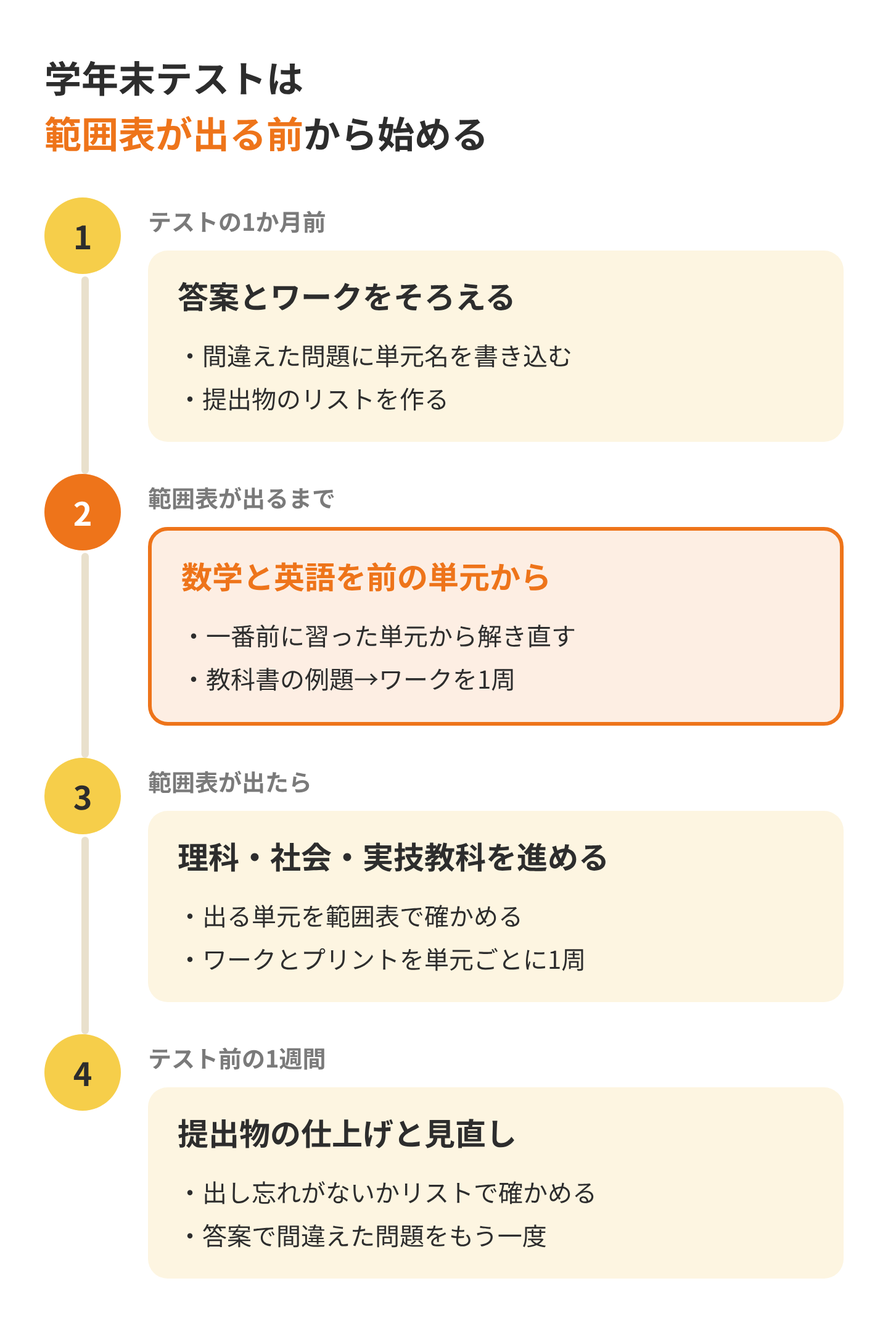
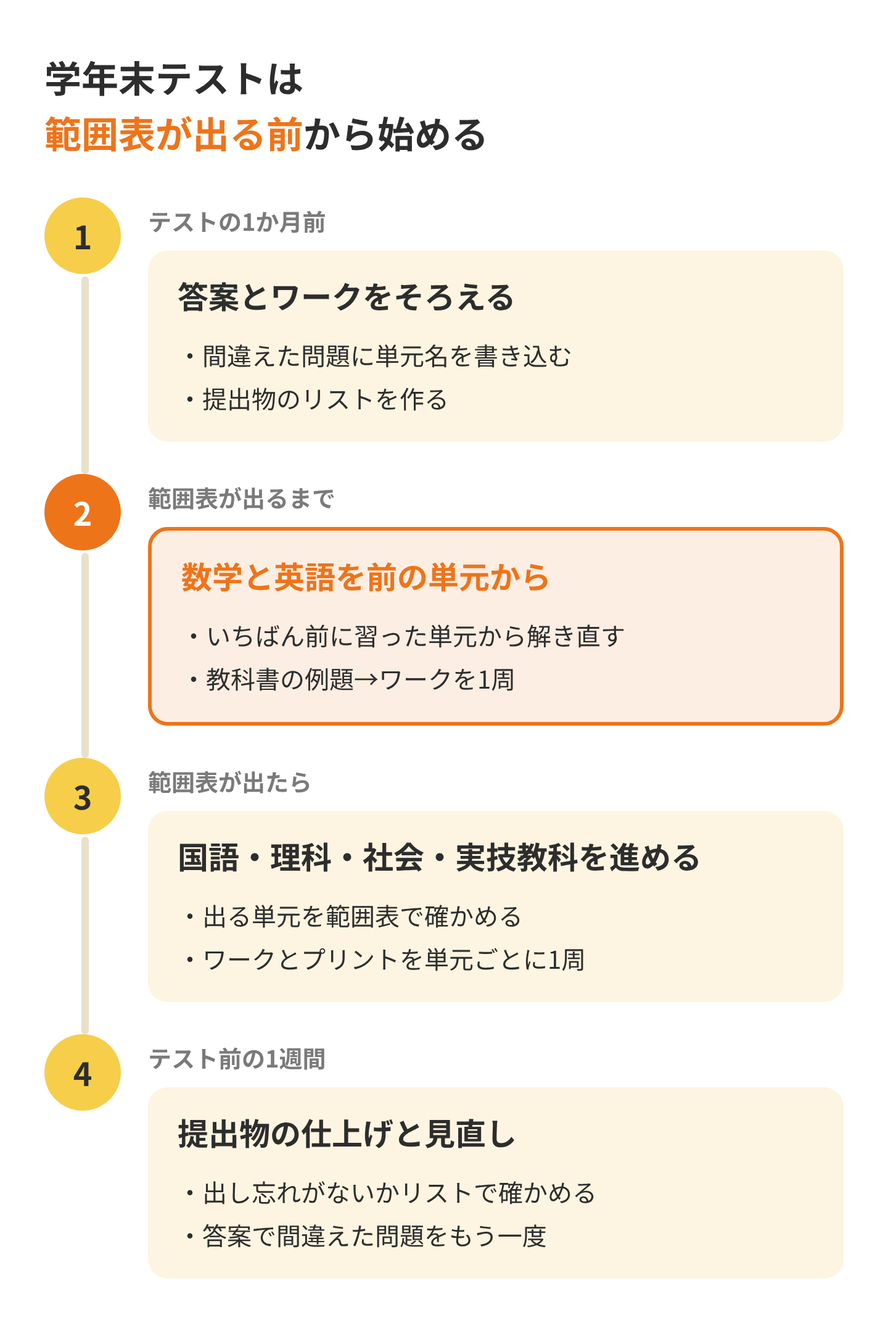
学年末テスト記事: 文体・読みやすさの指摘を反映、計画書の季節記事カレンダーを修正（記事は非公開のまま）
見出しのリズム読点、段落頭の短文、「〜のは〜です」、文中の内部リンク（カード化して段落が割れる）を直し、中1・中2に難しい用語（評定の総括、指導要録、共通選抜、実技教科、内申）を言い換えた。国語の進め方を足し、中1向けの単元例を追加。FAQの3問目を「範囲は1年分全部か」に差し替え、煽り気味のタイトルの関連記事カードは外した。
計画書 Part A のカレンダーからオフシーズンの行を外して学年末テストの行を足し、Part B のオフシーズンのキーワードを「見送り（検索なし）」にした。

Claude-Session: https://claude.ai/code/session_012jAEswVYEKr2cbnoqd2DkM

Changed region(s): [[0.25, 0.4688, 0.6875, 0.5], [0.4062, 0.625, 0.7812, 0.6562], [0.1875, 0.625, 0.375, 0.6562]]

diff --git a/content/blog/gakunenmatsu-test-chu1-chu2.md b/content/blog/gakunenmatsu-test-chu1-chu2.md
@@ -1,7 +1,7 @@
 ---
 title: 中1・中2の学年末テスト勉強法｜いつから始める？解き直しの順番と内申への影響
 description: >-
-  中1・中2の学年末テストは、その学年の評定を決める最後の定期テストです。中2の評定は神奈川・埼玉・千葉の、中1の評定は埼玉・千葉の公立高校入試で内申に入ります。2月のテストに向けて1月から何をそろえ、どの順番で解き直すかを、部活を続けている中学生に向けてまとめました。
+  中1・中2の学年末テストは、その学年の評定を決める最後の定期テストです。中2の評定は神奈川・埼玉・千葉の、中1の評定は埼玉と千葉の公立高校入試で内申に入ります。2月のテストに向けて1月から何をそろえ、どの順番で解き直すかを、部活を続けている中学生に向けてまとめました。
 date: '2026-10-26'
 author: 中村龍人
 category: 学習のコツ
@@ -23,134 +23,136 @@ published: false
 targetReader: student
 faq:
   - q: 学年末テストの平均点はどれくらいですか
-    a: 平均点は学校や教科、その回の問題によって変わり、全国で比べられる数字はありません。評定は、学習指導要領の目標に照らしてどこまでできているかで評価する方式（目標に準拠した評価）でつけられます。平均点と比べるより、答案で落とした単元を確かめるほうが次の点数につながります。
-  - q: 中1の学年末テストで、とくに大事な教科はありますか
-    a: 数学と英語は、中1の内容を使って中2の内容を習うので、学年末までに穴を埋めておくと次の学年が楽になります。ただ、埼玉と千葉の公立高校入試では中1の9教科すべての評定が数えられるので、実技教科も含めて取りこぼさないようにしましょう。
-  - q: 学年末テストは何日前から勉強すればいいですか
-    a: テストの1か月ほど前から始めましょう。2月にテストがある学校なら1月です。範囲表が配られる前でも、これまでの定期テストの答案と学校のワークをそろえ、数学と英語の間違えた単元を解き直すところまでは進められます。範囲表が出たら、理科と社会、実技教科に移ります。
+    a: 平均点は学校や教科、その回の問題によって変わるので、全国で比べられる数字はありません。評定は、その教科で習うことがどこまでできるようになったかを先生が見てつけるもので、文部科学省は2001年（平成13年）の通知から各教科の評定をこのつけ方にしています。平均点より上か下かを気にするより、答案で落とした単元を確かめるほうが次の点数につながります。
+  - q: 中1の学年末テストでとくに大事な教科はありますか
+    a: 数学と英語は中2の授業に直接つながるので、とくに穴を残さないようにしたい教科です。ただ、埼玉と千葉の公立高校入試では中1の9教科すべての評定が数えられるので、実技教科も含めて取りこぼさないようにしてください。
+  - q: 学年末テストの範囲は1年分全部ですか
+    a: 学校や教科によって違います。後期や3学期に習った単元を中心に出す学校もあれば、船橋市立船橋中学校の2年の英語のように、その学年で習った文法を範囲にしている例もあります。範囲表が配られたら、教科ごとにどこまで出るのかを確かめてください。
 ---
 
-中1・中2の学年末テストは、その学年の評定（学年末の通知表に載る5段階の成績）を決める最後の定期テストで、中2の評定は神奈川・埼玉・千葉の、中1の評定は埼玉・千葉の公立高校入試で内申として点数に入ります。テストが2月にある学校なら、勉強はその1か月ほど前の1月、範囲表が配られる前から始めましょう。まずは、これまでの定期テストの答案と学校のワークをそろえ、間違えた単元を前の学年までさかのぼって解き直します。
+中1・中2の学年末テストは、その学年の評定（学年末の通知表に載る5段階の成績）を決める最後の定期テストです。中2の評定は神奈川・埼玉・千葉の、中1の評定は埼玉と千葉の公立高校入試で内申（入試で使う、評定を点数にしたもの）として点数に入り、中3の評定だけを使う東京の都立高校でも、中3の授業は中1・中2で習った内容の上に進みます。テストが2月にある学校なら、1か月ほど前の1月、範囲表が配られる前から、これまでの定期テストの答案と学校のワークをそろえて、間違えた単元を前の学年までさかのぼって解き直してください。
 
-この記事は、部活を続けている中1・中2に向けて書いています。冬のうちに下準備を進めておくと、春の大会に向けて練習や試合が増える時期とテストが重なっても慌てずに済みます。私は高校3年の9月まで部活を続けてから受験勉強に切り替え、東京大学に進学しました。いまは塾で中学生を教えていて、そこで生徒に勧めている進め方をまとめました。
+私は高校3年の9月まで部活を続けてから受験勉強に切り替えて東京大学に進学し、いまは塾で中学生を教えています。この記事では、塾で生徒に勧めている学年末テストの進め方を、部活を続けている中1・中2に向けてまとめました。
 
 ![IMAGE_PLACEHOLDER: 冬の夕方、机に定期テストの答案と学校のワークを広げて見直す中学生](/images/blog/gakunenmatsu-test-chu1-chu2-desk.jpg)
 
-## 学年末テストは、ふだんの定期テストと何が違う？
+## 学年末テストはふだんの定期テストと何が違う？
 
-**その学年の評定を決める最後の定期テストになる点が、いちばん大きな違いです。** 文部科学省の通知では、中学校の評定は、学年ごとに各教科の学習の状況を、学習指導要領の目標に照らして総括的に評価してつけるものとされています。国立教育政策研究所の資料も、評定へのまとめは学期末や学年末に行われることが多いと説明しています。学年末までに解けるようになった単元は、学年末テストの点数として、その学年の評定の材料に加わります。
+**学年末テストはその学年の評定を決める最後の定期テストで、このテストの結果まで含めて1年間の評定がつけられます。** 文部科学省の通知では、評定は学年ごとに、その教科で習うことがどこまでできるようになったかをまとめて見てつけることになっています。国立教育政策研究所の資料にも、学期末や学年末に評定をまとめることが多いと書かれています。学年末までに解けるようになった単元は、学年末テストの点数としてその学年の評定の材料に入ります。
 
-範囲は学校や教科によって違います。後期や3学期に習った単元を中心に出す学校もあれば、千葉県の船橋市立船橋中学校の2年の範囲表のように、英語で「2年生で学習した文法表現」を範囲にしている教科もあります。前期・後期の2学期制の学校では、学年末テストを「後期期末テスト」や「第4回定期テスト」と呼ぶこともあります。範囲表が配られたら、教科ごとに、その学年のどこまでが出るのかを最初に確かめましょう。
+学年末テストの範囲は学校や教科によって違い、後期や3学期に習った単元を中心に出す学校もあります。千葉県の船橋市立船橋中学校の2年の英語のように、「2年生で学習した文法表現」と、その学年で習った文法を範囲にしている例もあります。前期・後期の2学期制の学校では、学年末テストを「後期期末テスト」や「第4回定期テスト」と呼ぶこともあります。範囲表が配られたら、まず教科ごとにその学年のどこまでが出るのかを確かめます。
 
-## 中1・中2の学年末テストは、高校受験に関係ある？
+## 中1・中2の学年末テストは高校受験に関係ある？
 
-**神奈川・埼玉・千葉の公立高校入試では中2の評定が、埼玉と千葉では中1の評定も内申として点数に入るので関係があります。** 東京の都立高校で使うのは中3の評定だけです。
+**神奈川・埼玉・千葉の公立高校を受けるなら関係があります。中2の評定は3県とも、中1の評定は埼玉と千葉で、入試の内申として点数に入ります。** 東京の都立高校は中3の評定だけを使います。
 
-| 都県 | 公立高校の入試で使う評定 | 中1・中2の評定の重さ |
+| 都県 | 入試で使う評定 | 中1・中2の評定 |
 |---|---|---|
-| 東京（都立） | 中3の9教科 | 使わない |
-| 神奈川 | 中2と中3の9教科（中3の合計は2倍） | 重みづけをしない高校では、中2の9教科の合計が135点のうち45点分 |
-| 埼玉 | 中1から中3までの9教科（共通選抜） | 学年の比率を1：1：1にする高校なら、中1と中2がそれぞれ135点のうち45点分 |
-| 千葉 | 中1から中3までの必修教科の評定の合計 | 全学年の合計を使う（配点は高校ごと） |
+| 東京（都立） | 中3 | 使わない |
+| 神奈川 | 中2・中3（中3は2倍） | 中2が135点中45点 |
+| 埼玉 | 中1・中2・中3 | 学年の比率が1：1：1の高校なら、中1・中2が135点中45点ずつ |
+| 千葉 | 中1・中2・中3 | 3学年の合計を使う（配点は高校ごと） |
 
 出典：各都県教育委員会の令和9年度（2027年度）入学者選抜の実施要綱・要領など（記事末の「参考にした資料」）
 
-埼玉の共通選抜では、学年ごとの比率を1：1：1、1：1：2、1：1：3の中から高校が選びます。中3の比率を重くする高校でも、中1と中2の評定がそれぞれ45点分入ることは変わりません。ただ、1：1：3の高校では満点が225点になるので、そのうちの45点分になります。埼玉の要項は、中1・中2の評定には指導要録（学校が学年ごとに残す成績の公式の記録）に書かれた評定を使うと定めています。
+1学年分の評定は9教科×5段階で45点満点で、表はいまの中3が受ける2027年度入試の決まりです。中1・中2が受ける年には変わることもあります。中3になったら、その年の要項で確かめてください。
 
-埼玉と千葉の内申では9教科の評定を足すので、音楽や美術、保健体育、技術・家庭の評定も、国語や数学と同じ重さで数えられます。神奈川では、高校によっては3教科まで、その教科の評定（中2の評定＋中3の評定×2）を最大2倍に重くして計算します。東京の都立高校の一般入試では、中3の実技4教科の評定を2倍にして計算します。
+埼玉の公立高校の入試（共通選抜）では、学年ごとの比率を1：1：1、1：1：2、1：1：3の中から高校が選びます。中3を重くする高校でも中1と中2の評定がそれぞれ45点分入ることは変わらず、1：1：3の高校では225点満点のうちの45点分になります。埼玉では、学校が学年ごとに残す成績の記録（指導要録）に書かれた評定が、そのまま入試に使われます。
 
-東京の場合も、中3の数学や英語は、中1・中2で習った内容の上に積み上がっていきます。中1・中2の学年末に残った穴は、中3の授業でそのまま顔を出します。内申の数え方と進路の選び方は、別の記事で全体を整理しています。
+埼玉と千葉の内申は9教科の評定を足して出すので、実技教科（音楽、美術、保健体育、技術・家庭）の評定も国語や数学と同じ重さで数えられます。神奈川では、高校によっては3教科まで選んで、その教科の評定（中2の評定＋中3の評定×2）を最大2倍にして数えます。東京の都立高校の一般入試では、中3の実技教科の評定を2倍にして計算します。
+
+東京の都立高校を受ける場合も、中3の数学や英語は中1・中2で習った内容を使って進むので、学年末までに残った穴は中3の授業でつまずく原因になります。内申の数え方と進路の選び方は、別の記事で全体を整理しています。
 
 [野球をがんばる中学生の高校進学｜3つの進路と選択肢の残し方](/blog/baseball-career-path-hub)
 
 :::cta-line
 id: gakunenmatsu_test_chu1_chu2_mid_line
 gift: 高校受験の基本のき‖（野球×高校受験 両立ガイド）
-title: 中1・中2のうちに、‖高校受験の全体像を‖家族で確かめておきませんか。
+title: 中1・中2のうちに‖高校受験の全体像を‖家族で確かめておきませんか。
 button: LINEで受け取る
 link: https://lin.ee/XXwhO3b
 :::
 
 ## 学年末テストの勉強はいつから始める？
 
-**テストの1か月ほど前、範囲表が配られる前から始めましょう。** 東京・神奈川・千葉の公立中学校の令和8年度の年間行事予定を見ると、中1・中2の学年末テストはどれも2月の上旬から下旬に予定されていました。たとえば、千葉市立若松中学校は2月9日・10日、川崎市立有馬中学校は2月15日・16日、東京都の北区立飛鳥中学校は2月22日からの予定です。その1か月前は、ちょうど1月になります。
+**テストの1か月ほど前から始めます。2月にテストがある学校なら、範囲表が配られる前の1月です。** 東京・神奈川・千葉の公立中学校の2026年度（令和8年度）の年間行事予定を見ると、中1・中2の学年末テストはどれも2月の上旬から下旬に予定されていました。たとえば千葉市立若松中学校は2月9日・10日、川崎市立有馬中学校は2月15日・16日、東京都の北区立飛鳥中学校は2月22日からの予定です。
 
 テスト前に部活動が止まる期間は、1週間前から（千葉市立緑町中学校）、原則として5日前から（船橋市立芝山中学校）のように学校によって違います。その期間だけで1年分の答案とワークを見直すのは大変なので、部活が止まる前から少しずつ進めておく必要があります。
 
-部活をしている人は、冬の予定も見ておきましょう。学校の部活動は、国のガイドラインで長期休業中に一定期間のオフシーズンを設けることになっていて、野球のクラブチームでも12月は卒団式などが中心になるところがあります。一方で、リトルシニアのチームの入団案内には、春の大会の支部予選が2月の第3日曜日から始まると書いているものもあり、テスト前の時期と重なることがあります。試合が少なくなりやすい12月から1月のうちに、答案とワークをそろえて、数学と英語の解き直しを進めておくと、2月に練習や試合が増えても慌てずに済みます。
+冬は部活の予定も変わり、学校の部活動は国のガイドラインで長期休業中に一定期間のオフシーズンを設けることになっていて、野球のクラブチームでも12月は卒団式などが中心になるところがあります。一方でリトルシニアのチームの入団案内には、春の大会の支部予選が2月の第3日曜日から始まると書かれているものもあり、クラブチームに入っている人は学年末テストの前と大会が重なることがあります。試合が少なくなりやすい12月から1月のうちに答案とワークをそろえ、数学と英語の解き直しを進めておけば、2月に練習や試合が増えても慌てずに済みます。
 
-## 予想問題を探す前に、何をそろえればいい？
+## 予想問題を探す前に何をそろえればいい？
 
-**これまでの定期テストの答案、学校のワーク、授業のプリント、提出物のリストの4つをそろえましょう。** 定期テストは、その学校で授業をしている先生が作ります。ネットの予想問題を探すより、授業で使ったワークやプリント、これまでのテストを見直すほうが、実際に出る問題に近づけます。
+**これまでの定期テストの答案、学校のワーク、授業のプリントの3つをそろえて、提出物のリストを作ります。** 定期テストは、その学校で授業をしている先生が作ります。ネットの予想問題を探すより、授業で使ったワークやプリントとこれまでのテストを見直すほうが、実際に出る問題に近い練習ができます。
 
 答案は、その学年で受けた定期テストを全部集めます。なくしてしまった回は、ワークの間違えた問題で代わりにできます。
 
-塾で内申を上げたい生徒を受け持つとき、私が最初にするのも提出物のリストづくりです。評定は、テストの点数のほかに、ノートやレポートの記述、授業中の発言なども材料にしてつけられます（評定のつき方は[中3の2学期の内申の記事](/blog/chu3-2gakki-naishin)でくわしく書いています）。学年末テストまでに出すワークやレポートを、教科ごとに締め切りと一緒に書き出しておくと、テスト勉強に追われて出し忘れることを防げます。
+塾で内申を上げたい生徒を受け持つと、私はまず提出物のリストを作ってもらいます。評定はテストの点数のほかに、ノートやレポートの記述、授業中の発言なども材料にしてつけられます。学年末テストまでに出すワークやレポートを教科ごとに締め切りと一緒に書き出しておくと、テスト勉強に追われて出し忘れることを防げます。
+
+評定がテストやそれ以外の取り組みからどうつけられるかは、中3の2学期の内申の記事でくわしく書いています。
+
+[中3の2学期で内申は上がる？評定の決まり方と期末テストまでに見直すところ](/blog/chu3-2gakki-naishin)
 
 ![IMAGE_PLACEHOLDER: 定期テストの答案と学校のワーク、提出物のリストを机に並べた中学生の手元](/images/blog/gakunenmatsu-test-chu1-chu2-materials.jpg)
 
-## 学年末テストは、どの順番で勉強すればいい？
+## 学年末テストはどの順番で勉強すればいい？
 
-**答案の間違えた問題に単元名を書き込み、数学と英語は前の単元から、理科と社会、実技教科は範囲表が出てから単元ごとに進めます。** 1か月前からの流れにすると、次のようになります。
+**まず答案の間違えた問題に単元名を書き込み、数学と英語は前の単元から、国語・理科・社会・実技教科は範囲表が出てから単元ごとに進めます。**
 
-![学年末テストまでの流れ。1か月前に答案とワークをそろえて単元名を書き込み、範囲表が出るまでに数学と英語を前の単元から解き直し、範囲表が出たら理科と社会、実技教科を単元ごとに進め、テスト前の1週間で提出物の仕上げと見直しをする](/images/blog/gakunenmatsu-test-chu1-chu2-flow.png)
+![学年末テストまでの流れ。1か月前に答案とワークをそろえて単元名を書き込み、範囲表が出るまでに数学と英語を前の単元から解き直し、範囲表が出たら国語・理科・社会・実技教科を単元ごとに進め、テスト前の1週間で提出物の仕上げと見直しをする](/images/blog/gakunenmatsu-test-chu1-chu2-flow.png)
 
-### 数学と英語は、前の単元までさかのぼる
+### 数学と英語は前の単元までさかのぼる
 
-数学と英語は、前に習った単元を使って次の単元を習う教科です。答案の間違えた問題の横に、「一次関数の式を求める」「連立方程式の文章題」のように、教科書の目次で見つかる単元名を書き込みます。
+数学と英語は、前に習った単元を使って次の単元を習う教科です。答案の間違えた問題の横に、中1なら「比例の式を求める」、中2なら「連立方程式の文章題」のように、教科書の目次で見つかる単元名を書き込みます。
 
-単元名が並んだら、その中で一番前に習った単元から解き直します。中2の一次関数でつまずいている人は、中1の比例・反比例や、文字式の計算でつまずいたままのことがよくあります。英語なら、中2の文法で間違えていても、中1で習った三人称単数のsや、be動詞と一般動詞の使い分けで止まっていることがあります。根っこの単元を先に埋めると、その上の単元もまとめて解けるようになります。
+単元名が並んだら、その中でいちばん前に習った単元から解き直します。中2の一次関数でつまずいている人は、中1の比例・反比例や文字式の計算が分からないままになっていることがよくあります。英語なら、中2の文法で間違えていても、中1で習った三人称単数のsや、be動詞と一般動詞の使い分けで止まっていることがあります。根っこの単元を先に埋めておくと、その上の単元も解きやすくなります。
 
-解き直しは、教科書の例題から始めて、学校のワークの同じ単元を1周するところまで進めましょう。
+解き直しは教科書の例題から始めて、学校のワークの同じ単元を1周するところまで進めます。
 
-### 理科と社会、実技教科は範囲表が出てから
+### 国語・理科・社会・実技教科は範囲表が出てから
 
-理科と社会は、単元ごとに内容が分かれていることが多い教科です。範囲表で出る単元を確かめてから、ワークとプリントを単元ごとに1周し、答案で間違えた問題をもう一度解きます。
+理科と社会は単元ごとに内容が分かれていて、前の単元を知らなくても次の単元を学べることが多い教科です。範囲表で出る単元を確かめてから、ワークとプリントを単元ごとに1周し、答案で間違えた問題をもう一度解きます。国語は、範囲表に載った教科書の文章を読み直し、漢字や文法はワークの該当ページを解きます。
 
-実技教科も、筆記のテストで問われることを授業のプリントで確かめておきましょう。前の章で書いたとおり、実技教科の評定も内申に入ります。
+実技教科は、筆記のテストで問われることを授業のプリントで確かめておきます。
 
-## 部活で時間がないときは、どうすればいい？
+## 部活で時間がないときはどうすればいい？
 
-**平日は10分か15分で終わる最低ラインだけを決めて、まとまった解き直しは練習のない日に回しましょう。** 文部科学省の部活動のガイドライン（令和7年12月）では、学校の部活動に週2日以上の休養日を設けることになっています。練習のない日を、答案の解き直しやワークを進める日にあてると、平日の負担が軽くなります。
+**平日は10分から15分で終わる最低ラインだけを決めて、まとまった解き直しは練習のない日に回します。** 文部科学省の部活動のガイドライン（令和7年12月）では、学校の部活動に週2日以上の休養日を設けることになっています。練習のない日を答案の解き直しやワークを進める日にあてると、ほかの日は最低ラインだけで済みます。
 
-最低ラインは、英単語を10個確かめる、その日の数学の授業の例題を1問解き直す、のように、何をやるかまで決めておくと、疲れて帰った日でも迷わずに始められます。冬は、部活の完全下校時刻を早める中学校もあります。たとえば東京都の江戸川区立清新第二中学校（令和7年度）は、11月から2月の完全下校が18時で、3月から10月より30分早くなっています。帰りが早くなった日も、勉強に回せる時間として数えておきましょう。
+「英単語を10個確かめる」「その日の数学の例題を1問解き直す」のように最低ラインで何をやるかまで決めておくと、疲れて帰った日でも迷わずに始められます。冬は部活の完全下校時刻を早める中学校もあり、たとえば東京都の江戸川区立清新第二中学校（令和7年度）は、11月から2月の完全下校が18時で、3月から10月より30分早くなっています。帰りが早くなった日も、勉強に回せる時間に数えてください。
 
-私は高校3年の9月まで部活を続けていて、そのあいだは「机に向かう習慣だけはなくさない」と決めていました。量が少なくても、毎日机に向かっていると、テスト前に勉強時間を増やすときに無理なく切り替えられます。
+部活を続けていたあいだ、私は「机に向かう習慣だけはなくさない」と決めていました。量が少なくても毎日机に向かっていると、テスト前に勉強時間を増やすときに無理なく切り替えられます。
 
-## 学年末テストの点数が悪かったら、何をすればいい？
+## 学年末テストの点数が悪かったら何をすればいい？
 
-**テストが返ってきた週のうちに、間違えた問題を解き直しておきましょう。** 学年末の評定はそのテストも含めて決まりますが、次の学年の授業は、今の学年で習った内容の上に進んでいきます。解けなかった単元を春休みまでに埋めておけば、次の学年の最初の定期テストで取り返せます。
+**テストが返ってきた週のうちに、間違えた問題を解き直します。** 学年末の評定はそのテストも含めて決まりますが、次の学年の授業は、今の学年で習った内容の上に進んでいきます。解けなかった単元を春休みまでに埋めておけば、次の学年の最初の定期テストで点数を取り戻しやすくなります。
 
-高校のブラスバンドにいたころ、2月の本番が終わって練習が落ち着いた時期に、ちょうど模試がありました。そのときは、模試の直しをしていた覚えがあります。大きな本番のあとは気が抜けやすい時期ですが、練習が少ないぶん、間違えた問題に向き合う時間を取りやすい時期でもあります。
-
-点数が下がってきたときの立て直し方は、別の記事にまとめています。
-
-[部活で成績が下がった時の立て直し方法5ステップ【野球部生必見】](/blog/baseball-club-grade-recovery-5steps)
+高校のブラスバンドにいたころは、2月の本番が終わって練習が落ち着いた時期にちょうど模試があり、その直しをしていた覚えがあります。大会や本番が終わって練習が軽くなる週は気が抜けやすいのですが、間違えた問題に向き合う時間を取りやすい週でもあります。
 
 ## よくある質問
 
 ### 学年末テストの平均点はどれくらいですか
 
-**平均点は学校や教科、その回の問題によって変わり、全国で比べられる数字はありません。** 評定は、学習指導要領の目標に照らしてどこまでできているかで評価する方式（目標に準拠した評価）でつけられます。文部科学省は、平成13年の指導要録の改善通知で、各教科の評定もこの方式に改めたと説明しています。平均点と比べるより、答案で落とした単元を確かめるほうが次の点数につながります。
+**平均点は学校や教科、その回の問題によって変わるので、全国で比べられる数字はありません。** 評定は、その教科で習うことがどこまでできるようになったかを先生が見てつけるもので、文部科学省は2001年（平成13年）の通知から各教科の評定をこのつけ方にしています。平均点より上か下かを気にするより、答案で落とした単元を確かめるほうが次の点数につながります。
 
-### 中1の学年末テストで、とくに大事な教科はありますか
+### 中1の学年末テストでとくに大事な教科はありますか
 
-**数学と英語は、中1の内容を使って中2の内容を習うので、学年末までに穴を埋めておくと次の学年が楽になります。** ただ、埼玉と千葉の公立高校入試では中1の9教科すべての評定が数えられるので、実技教科も含めて取りこぼさないようにしましょう。
+**数学と英語は中2の授業に直接つながるので、とくに穴を残さないようにしたい教科です。** ただ、埼玉と千葉の公立高校入試では中1の9教科すべての評定が数えられるので、実技教科も含めて取りこぼさないようにしてください。
 
-### 学年末テストは何日前から勉強すればいいですか
+### 学年末テストの範囲は1年分全部ですか
 
-**テストの1か月ほど前から始めましょう。** 2月にテストがある学校なら1月です。範囲表が配られる前でも、これまでの定期テストの答案と学校のワークをそろえ、数学と英語の間違えた単元を解き直すところまでは進められます。範囲表が出たら、理科と社会、実技教科に移ります。
+**学校や教科によって違います。** 後期や3学期に習った単元を中心に出す学校もあれば、船橋市立船橋中学校の2年の英語のように、その学年で習った文法を範囲にしている例もあります。範囲表が配られたら、教科ごとにどこまで出るのかを確かめてください。
 
 ## まとめ
 
 - 学年末テストは、その学年の評定を決める最後の定期テストになる
-- 神奈川・埼玉・千葉の公立高校入試では中2の評定が、埼玉・千葉では中1の評定も内申に入る
+- 中2の評定は神奈川・埼玉・千葉の、中1の評定は埼玉と千葉の公立高校入試で内申に入る
 - 2月のテストなら、範囲表が出る前の1月から始める
-- 予想問題を探す前に、答案・ワーク・プリント・提出物のリストをそろえる
-- 数学と英語は前の単元から、理科と社会、実技教科は範囲表が出てから進める
+- 予想問題を探す前に、答案・ワーク・プリントをそろえて提出物のリストを作る
+- 数学と英語は前の単元から、国語・理科・社会・実技教科は範囲表が出てから進める
 - 部活で忙しい日は最低ラインだけにして、練習のない日にまとめて解き直す
 
-学年末テストで埋めた単元は、次の学年の勉強の土台になります。冬のうちに準備を始めて、1年の締めくくりを自分の力で乗り切りましょう。
+学年末テストで埋めた単元は、次の学年の勉強の土台になります。まずは今週のうちに、これまでの定期テストの答案がどこにあるかを確かめてみてください。
 
 ## 参考にした資料
 

diff --git a/docs/2604_update/nobilva_blog_framework_part_b.md b/docs/2604_update/nobilva_blog_framework_part_b.md
@@ -108,7 +108,7 @@
 | 野球 朝練 勉強 | 裏取り待ち | 両方 | — |
 | 野球 試合前 勉強 | 裏取り待ち | 生徒 | 優先度低 |
 | 部活 スキマ時間 勉強 | 裏取り待ち | 生徒 | — |
-| 野球 オフシーズン 勉強 | 裏取り待ち | 両方 | 季節記事（10月下旬） |
+| 野球 オフシーズン 勉強 | 見送り（2026-10-25のラッコで検索なし） | 両方 | 冬の勉強の検索は「学年末テスト 中1・中2」に集まっていたため、`gakunenmatsu-test-chu1-chu2` に場面として統合 |
 
 ---
 
